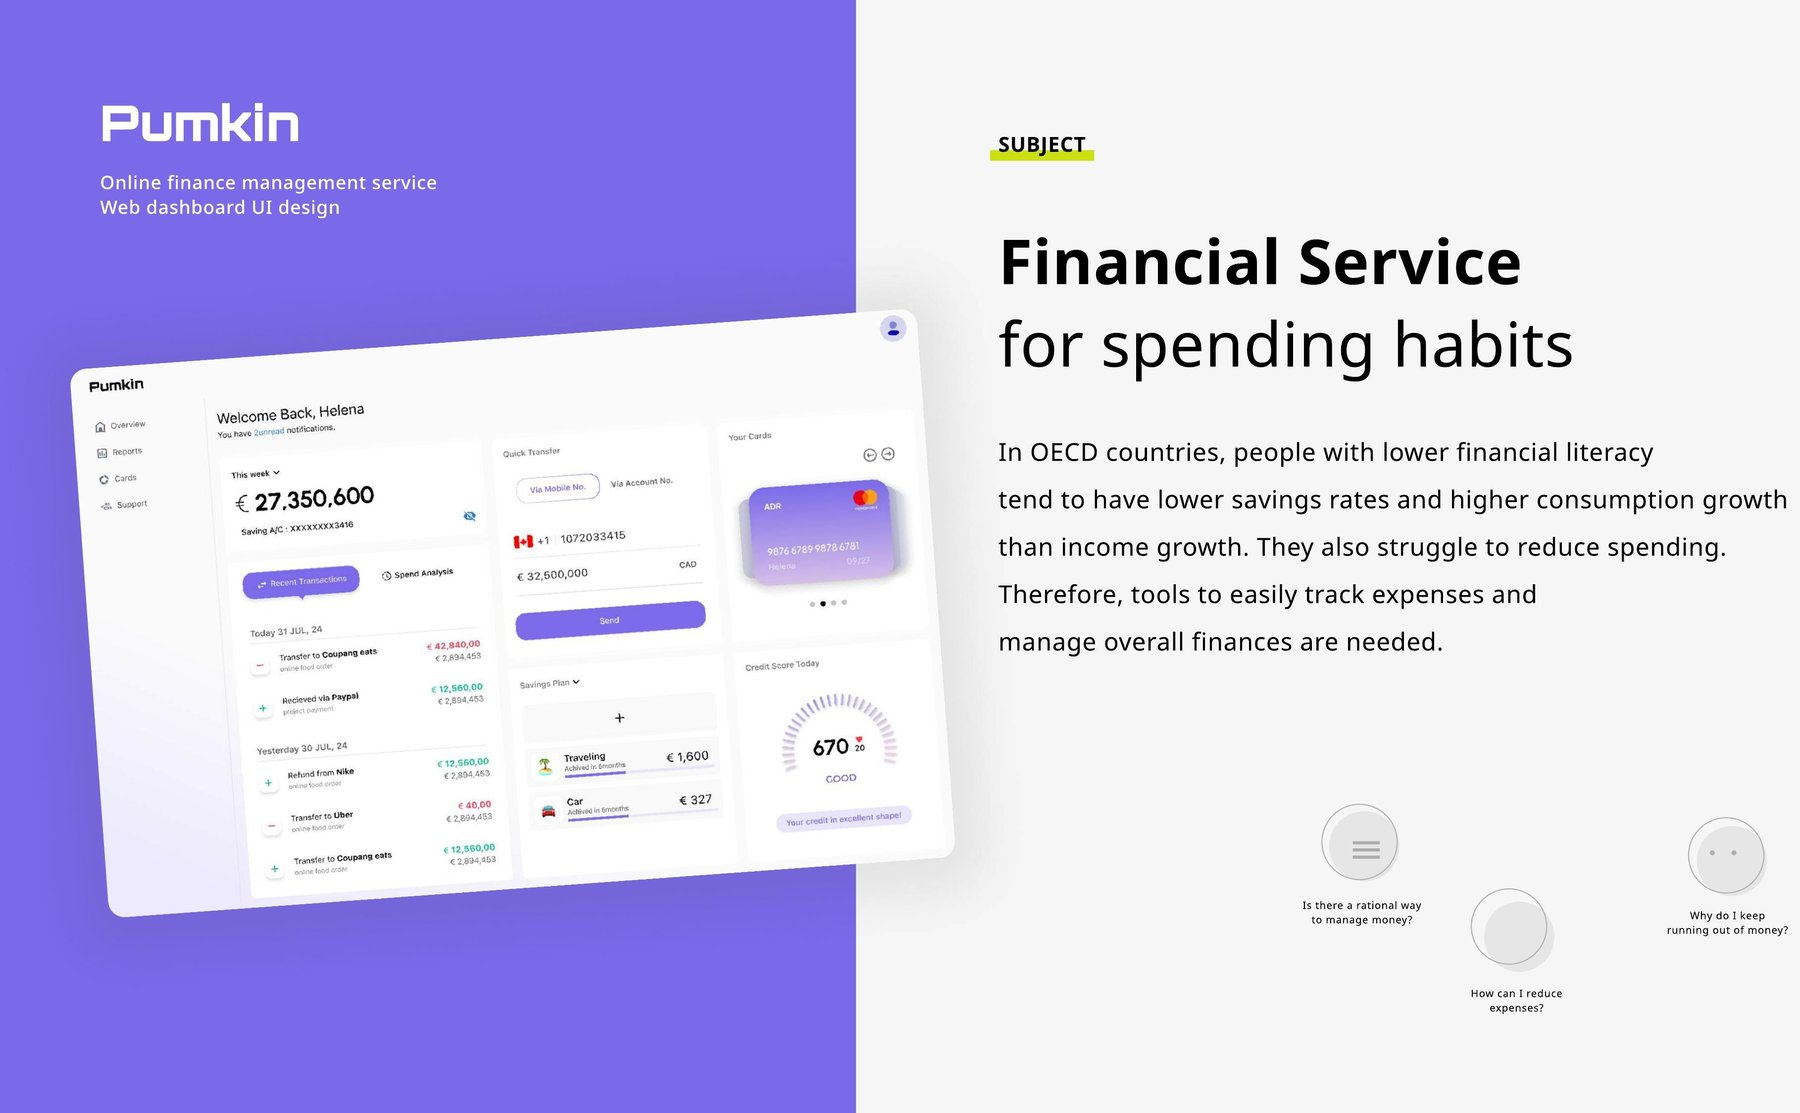
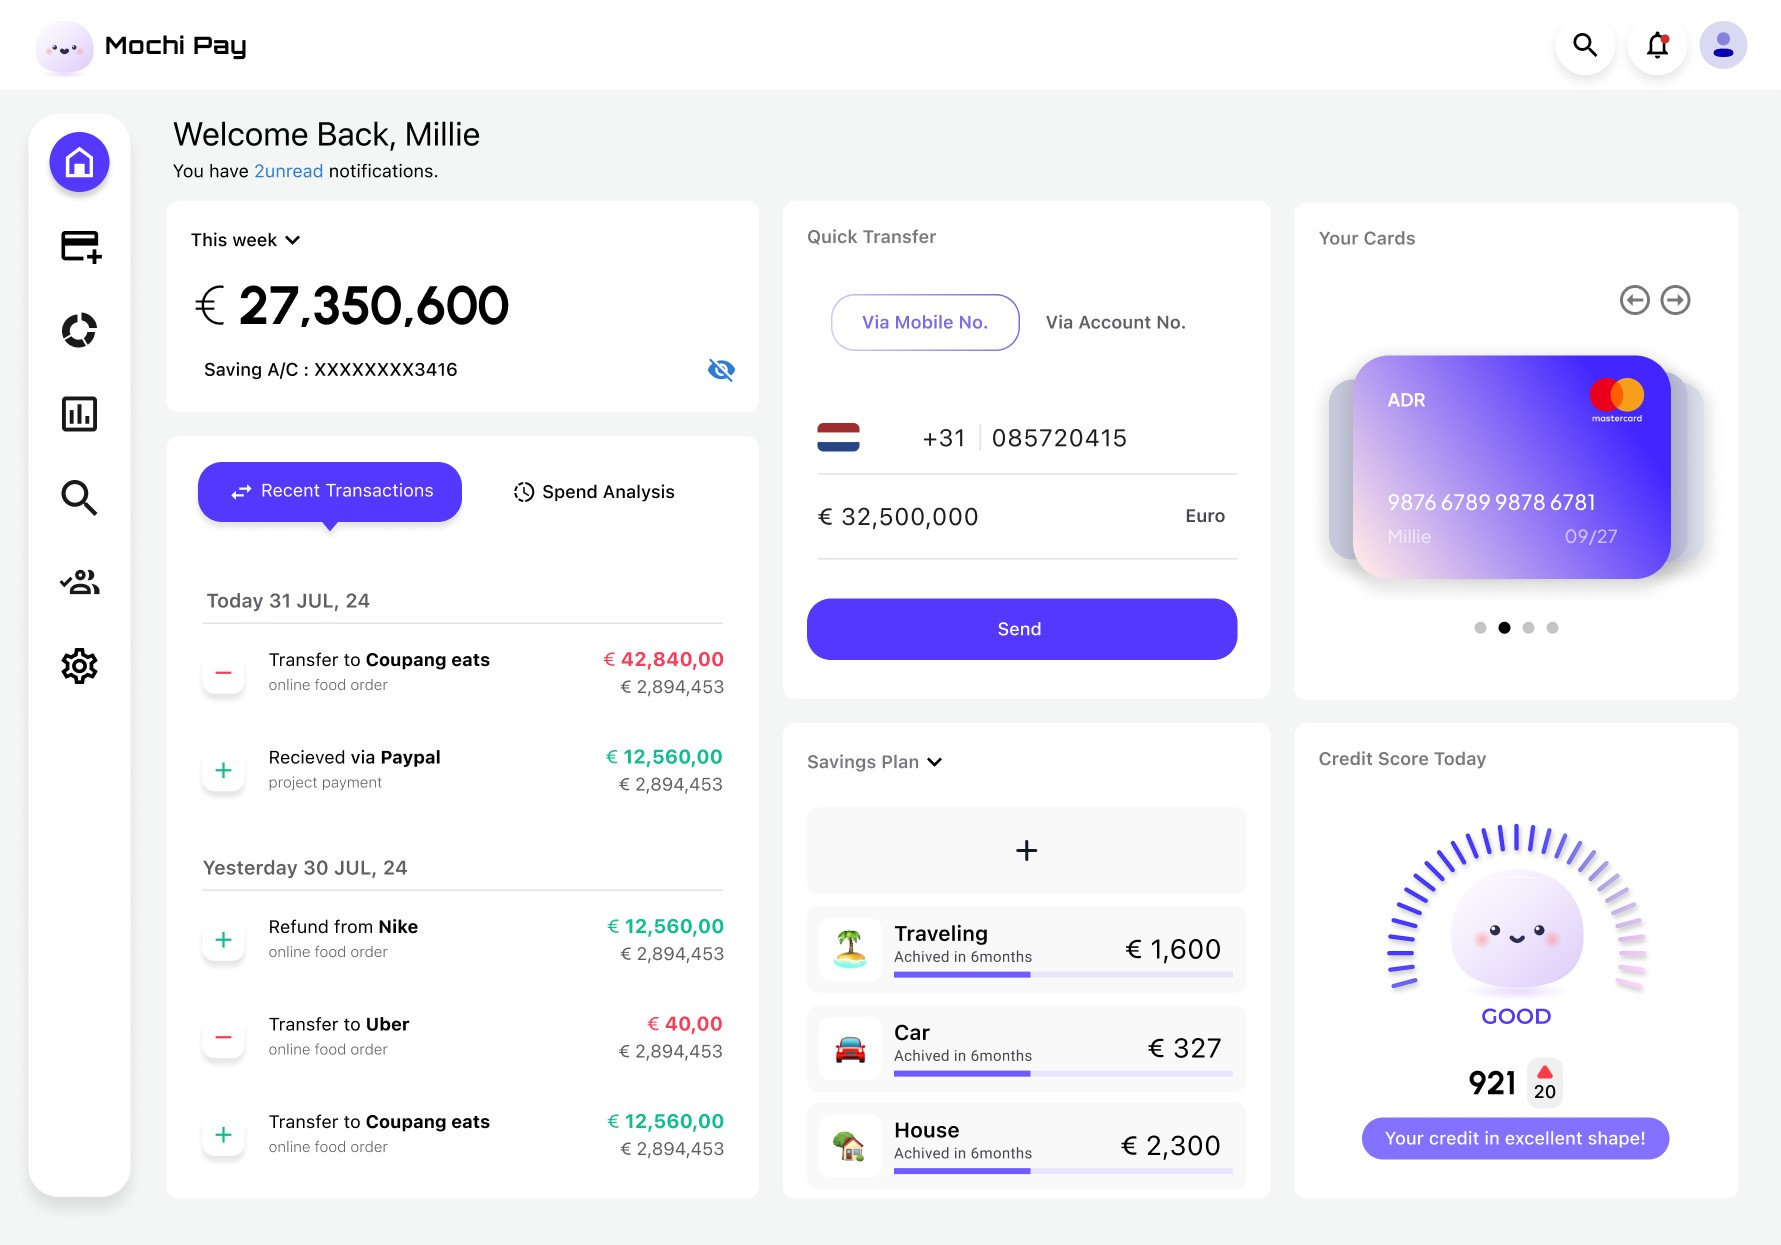
Add Mochi Pay hero image to Pumkin project page, fix broken src and remove forced aspect-ratio

diff --git a/project-demo-pumkin-finance-dashboard.html b/project-demo-pumkin-finance-dashboard.html
@@ -34,8 +34,8 @@
     </span>
   </header>
 
-  <div class="hero-media" style="aspect-ratio: 1800 / 1012;">
-    <img src="images/pumkin-hero.png" alt="Pumkin 개인 자산 관리 대시보드 메인 화면">
+  <div class="hero-media">
+    <img src="images/pumkin-hero.jpg" alt="Mochi Pay 개인 자산 관리 대시보드 메인 화면">
   </div>
 
   <section class="intro">
